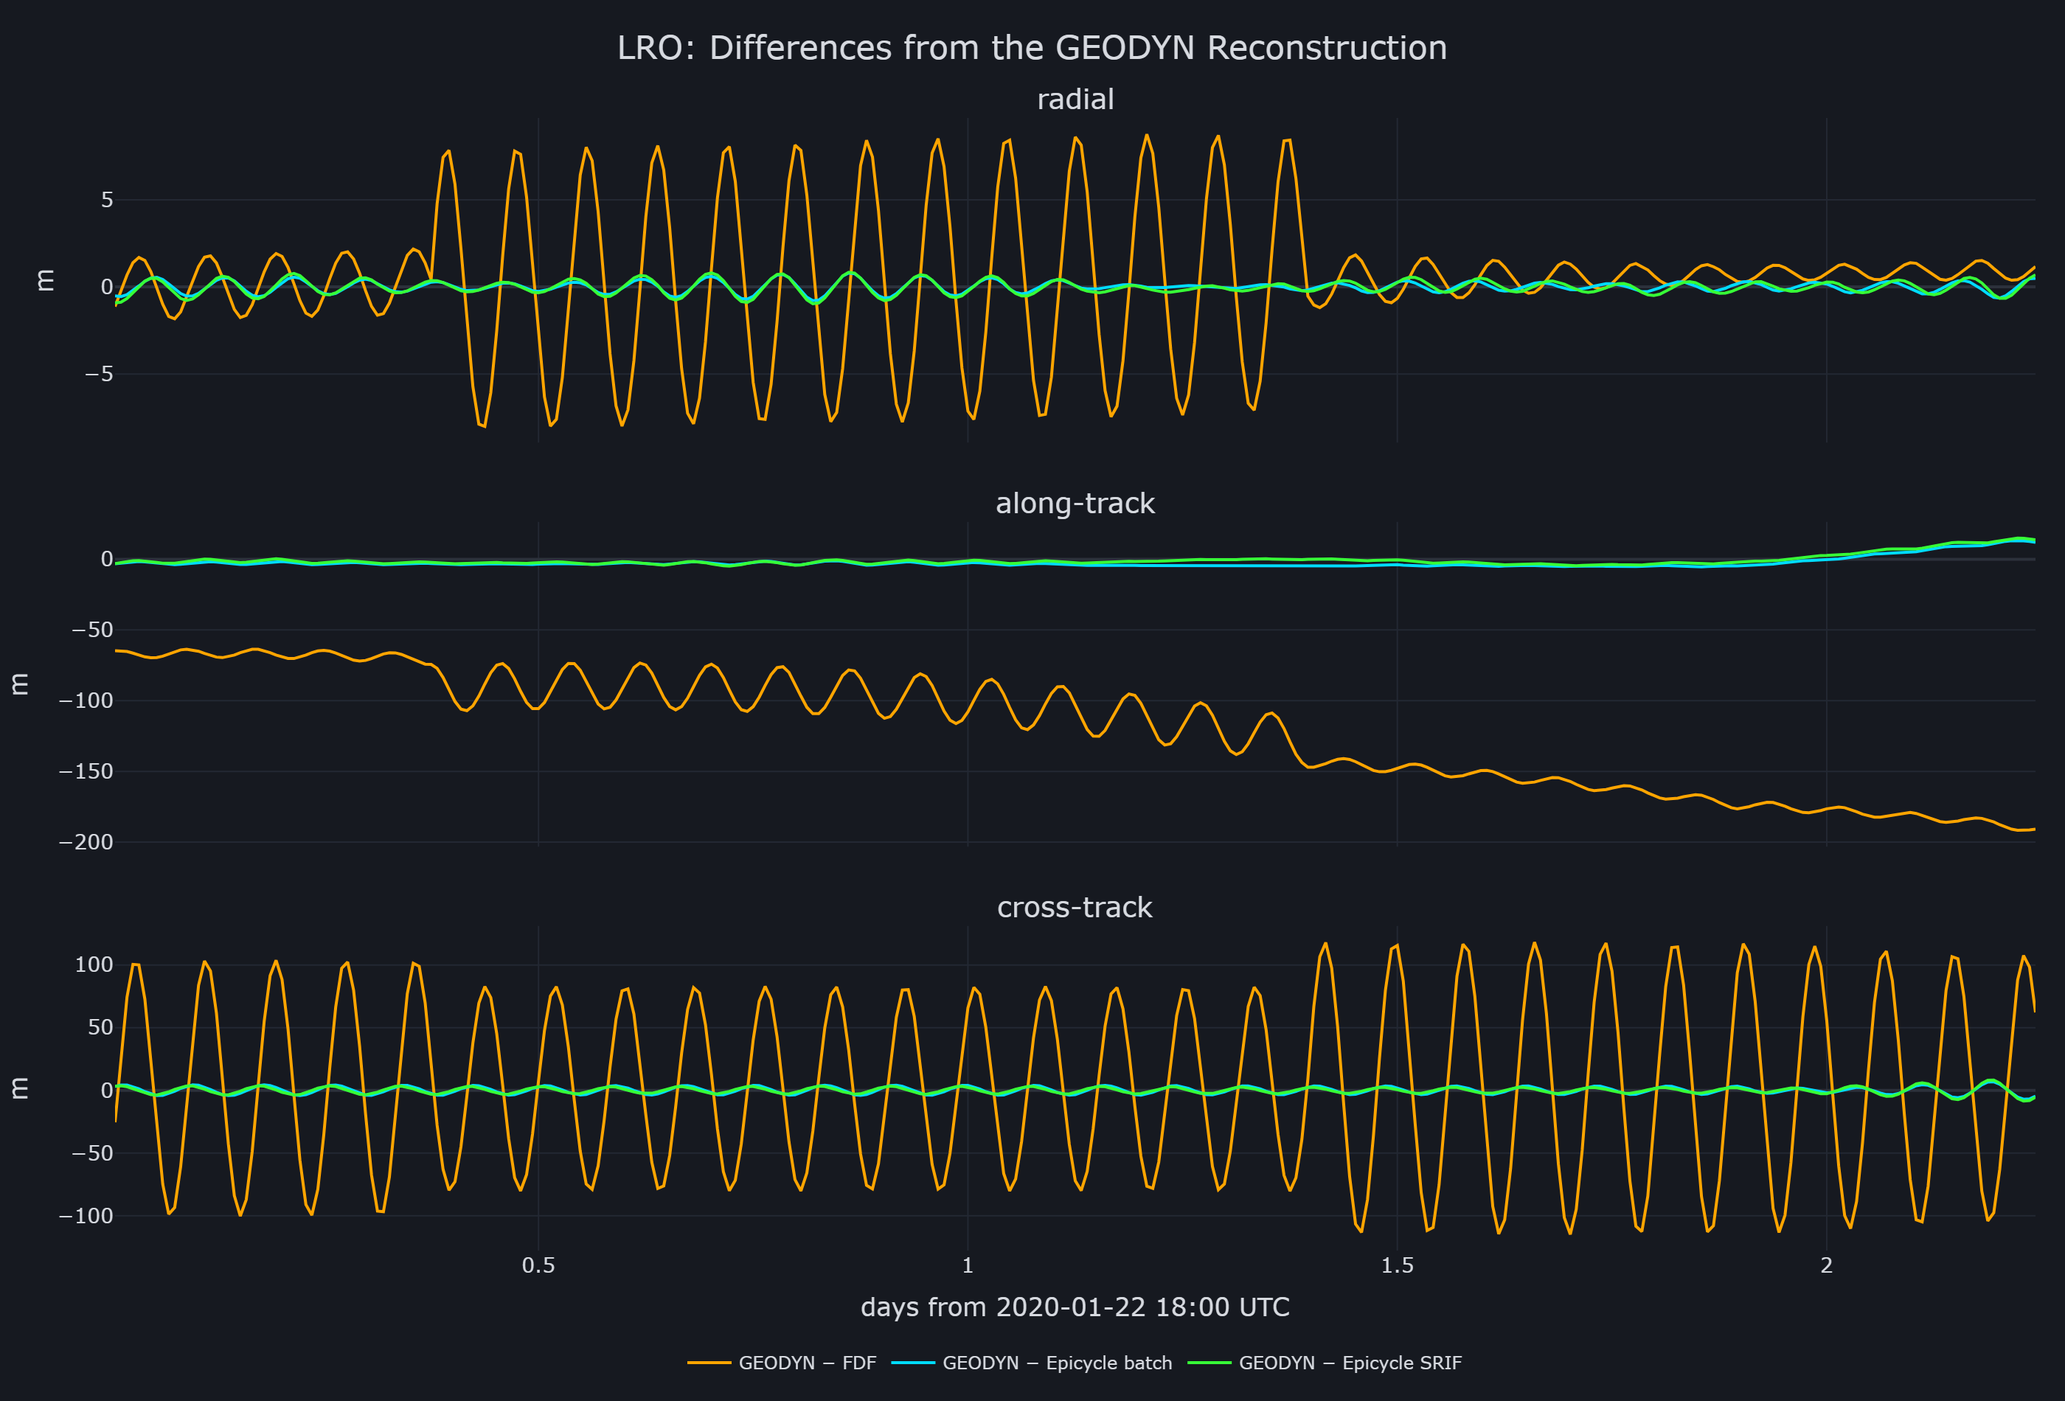
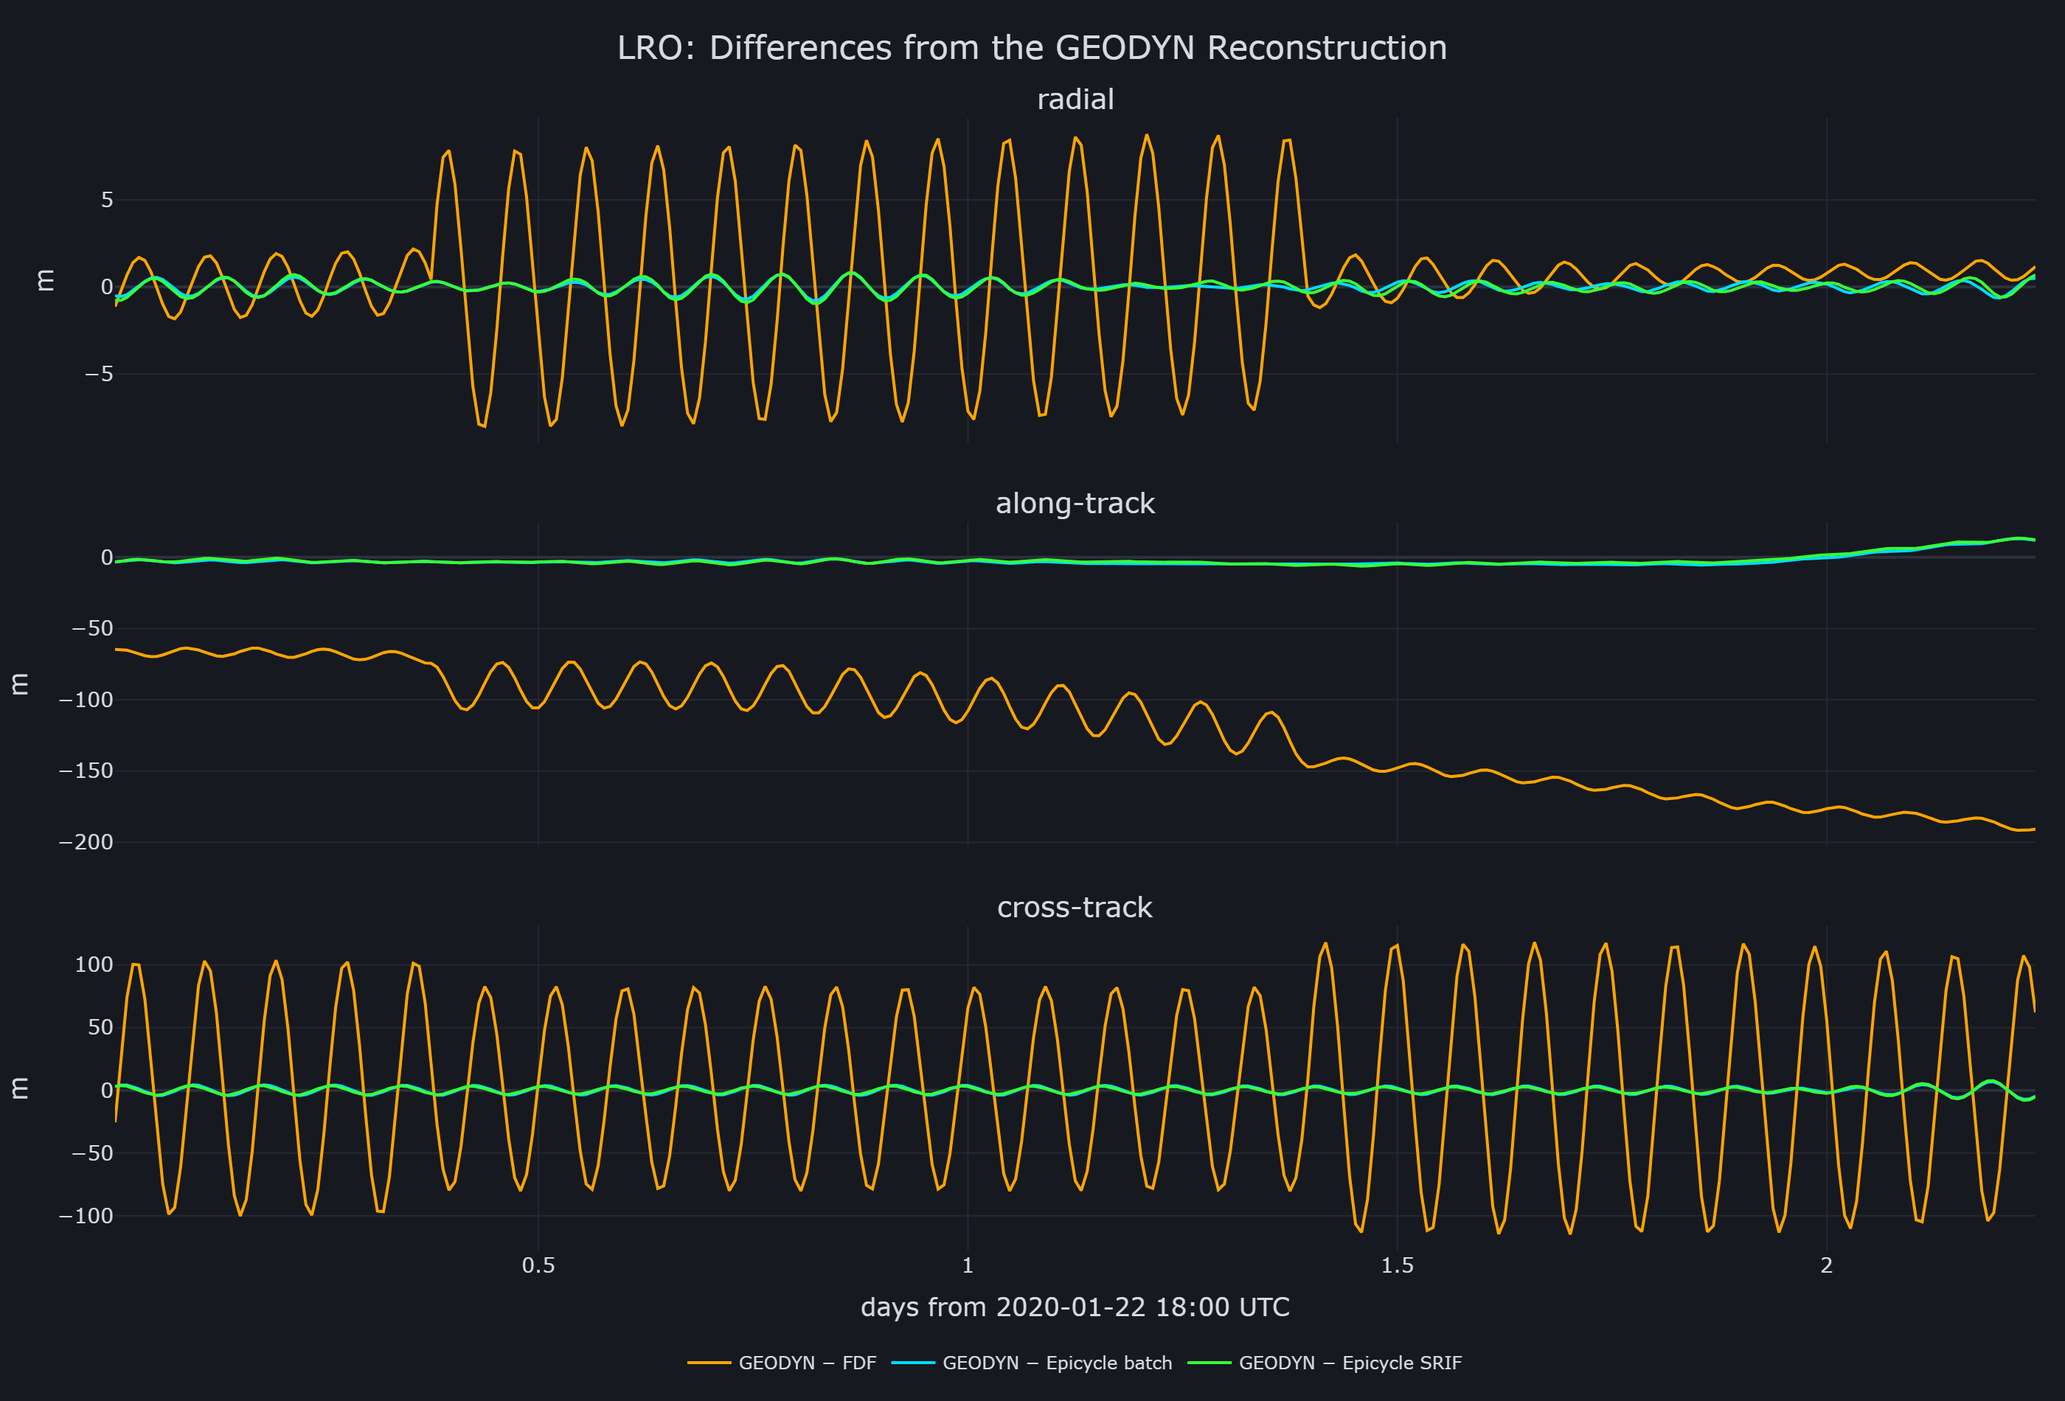
Gallery: LRO filter and smoother residuals, MESSENGER second, one search snippet, global search and hybrid transcription text, Apophis removed; Ex_MixedTranscription restored

Changed region(s): [[0.0621, 0.3726, 0.9943, 0.4037], [0.6525, 0.1863, 0.7457, 0.2174], [0.5282, 0.1863, 0.6214, 0.2174]]

diff --git a/Epicycle/docs/src/gallery.md b/Epicycle/docs/src/gallery.md
@@ -4,9 +4,19 @@ This gallery shows Epicycle applied to real-world, hard problems. The examples i
 
 # LRO Precision OD
 
-An LRO OD solution agrees with the LOLA science team's orbit to meters. The solution processes two days of LRO S-band Doppler and range from three NASA ground network stations. The fit uses the GRGM900C lunar field to degree 150 with lunar solid tides raised by the Earth and Sun, Earth, Sun and Jupiter point masses, cannonball solar radiation pressure, relativity, the Saastamoinen troposphere with reported weather, and the JPL global ionosphere maps. It estimates 17 parameters: the state, the reflectivity, an along-track acceleration, and Doppler, range and range time-tag biases for each station. The same data are also fit with the epoch-state square-root information filter and smoother, which adds Gauss-Markov accelerations on each axis, each held for six hours: 27 more parameters. Epicycle's solution differs from the LOLA team's GEODYN reconstruction by 0.3 m radial, 4.4 m along-track and 2.8 m cross-track RMS with the batch estimator, and by 0.4 m, 4.0 m and 2.5 m with the filter and smoother. The Flight Dynamics Facility's daily solution differs from GEODYN by 3.9 m, 127 m and 70 m.
+An LRO OD solution agrees with the LOLA science team's orbit to meters. The solution processes two days of LRO S-band Doppler and range from three NASA ground network stations. The fit uses the GRGM900C lunar field to degree 150 with lunar solid tides raised by the Earth and Sun, Earth, Sun and Jupiter point masses, cannonball solar radiation pressure, relativity, the Saastamoinen troposphere with reported weather, and the JPL global ionosphere maps. It estimates 17 parameters: the state, the reflectivity, an along-track acceleration, and Doppler, range and range time-tag biases for each station. The same data are also fit with the epoch-state square-root information filter and smoother, which adds Gauss-Markov accelerations on each axis, each held for six hours: 27 more parameters. Epicycle's solution differs from the LOLA team's GEODYN reconstruction by 0.3 m radial, 4.4 m along-track and 2.8 m cross-track RMS with the batch estimator, and by 0.4 m, 4.4 m and 2.6 m with the filter and smoother. The Flight Dynamics Facility's daily solution differs from GEODYN by 3.9 m, 127 m and 70 m.
 
 ![GEODYN minus FDF and the two Epicycle orbits](assets/gallery/LRO_OD_DefinitiveSolutionCompare.png)
+
+The filter's empirical accelerations, modeled as a first-order Gauss-Markov process, absorb the dynamics errors that leave each pass of Doppler residuals tilted in the batch fit, and the Doppler RMS falls from 0.63 to 0.44 mm/s.
+
+![LRO Doppler residuals, batch and filter](assets/gallery/LRO_Doppler_Residuals.png)
+
+# MESSENGER OD with ΔDOR
+
+A MESSENGER OD solution agrees with the navigation team's od431 reconstruction to a few kilometers, and ΔDOR resolves the plane of the sky. The solution processes thirty-five days of MESSENGER's approach to Mercury in 2011, from DSN ramped Doppler, sequential range and ΔDOR against ICRF3 quasars. The fit uses the planets and the Moon as point masses, solar relativity, plate solar radiation pressure on an eight-plate sunshade and both sides of the solar panels oriented by the reconstructed attitude, Moyer's corona model in every leg of the light time, and the DSN troposphere and ionosphere calibrations. It estimates 39 parameters: the state, six plate-group scale factors, the sunshade reflectivities, the corona strength, ten range biases and fourteen three-way Doppler biases. The batch estimator and the epoch-state square-root information filter reach the same solution. Epicycle's solution differs from od431 (JPL's published ephemeris solution) by 1.0 km radial, 2.1 km along-track and 1.2 km cross-track RMS, and by 13 nrad on the plane of the sky; without ΔDOR the difference reaches 21 km.
+
+![MESSENGER residuals](assets/gallery/MESSENGER_Residuals.png)
 
 # Juno Small-Force Estimation
 
@@ -19,12 +29,6 @@ A Juno OD solution estimates small forces as events. The solution processes a mo
 A LAGEOS OD solution agrees with DGFI and the ILRS as closely as they agree with each other (millimeters radial, centimeters along-track and cross-track). The solution processes a week of LAGEOS-1 SLR data from twenty-one ILRS stations. The fit uses sub-daily Earth orientation, solid-tide, pole-tide and ocean-loading station displacements, the Mendes-Pavlis troposphere, a 60 × 60 field with solid and ocean tides, cannonball solar radiation pressure, and relativity. It estimates 46 parameters: the state, the reflectivity, 18 empirical accelerations and a range bias for every station. Epicycle's solution differs from DGFI's by 4.3 mm radial, 1.3 cm along-track and 3.3 cm cross-track RMS, and from the ILRS combined solution by 4.8 mm, 2.6 cm and 1.7 cm; the two published orbits differ from each other by 3.7 mm, 2.0 cm and 3.3 cm.
 
 ![LAGEOS range residuals](assets/gallery/LAGEOS_Residuals.png)
-
-# MESSENGER OD with ΔDOR
-
-A MESSENGER OD solution agrees with the navigation team's od431 reconstruction to a few kilometers, and ΔDOR resolves the plane of the sky. The solution processes thirty-five days of MESSENGER's approach to Mercury in 2011, from DSN ramped Doppler, sequential range and ΔDOR against ICRF3 quasars. The fit uses the planets and the Moon as point masses, solar relativity, plate solar radiation pressure on an eight-plate sunshade and both sides of the solar panels oriented by the reconstructed attitude, Moyer's corona model in every leg of the light time, and the DSN troposphere and ionosphere calibrations. It estimates 39 parameters: the state, six plate-group scale factors, the sunshade reflectivities, the corona strength, ten range biases and fourteen three-way Doppler biases. The batch estimator and the epoch-state square-root information filter reach the same solution. Epicycle's solution differs from od431 by 1.0 km radial, 2.1 km along-track and 1.2 km cross-track RMS, and by 13 nrad on the plane of the sky; without ΔDOR the difference reaches 21 km.
-
-![MESSENGER residuals](assets/gallery/MESSENGER_Residuals.png)
 
 # Propagation Accuracy and Speed
 
@@ -88,8 +92,7 @@ Bryson's orbit raising problem: a constant-thrust spacecraft steers to reach the
 
 # Hybrid Transcription
 
-Low-thrust orbit raising with three phases, each with a different transcription — zero-order hold, Hermite-Simpson and
-Legendre-Gauss-Lobatto.
+Bryson's orbit raising problem split into three phases, each with a different transcription: zero-order-hold multiple shooting, Hermite-Simpson collocation and Legendre-Gauss-Lobatto collocation. Links enforce state and time continuity at the phase boundaries, and one IPOPT problem solves the three together, reaching the 1.523 final radius of the single-phase solution.
 
 ![Hybrid transcription](assets/gallery/Ex_LowThrustHybridTranscription.png)
 
@@ -117,12 +120,6 @@ A transfer from an L1 to an L2 Lyapunov orbit of equal energy in the Earth-Moon 
 
 ![Lyapunov transfer](assets/gallery/Ex_LypunovTransfer.png)
 
-# Apophis Rendezvous
-
-A 360-day low-thrust rendezvous from Earth to the asteroid Apophis for a 1500 kg spacecraft with a 1 N, 3000 s thruster, minimizing propellant. The Sims-Flanagan transcription splits the trajectory into 40 segments, half propagated forward from Earth and half backward from Apophis, meeting at a match point, and IPOPT solves for the throttles.
-
-![Apophis rendezvous](assets/gallery/Ex_ApophisRendezvousSimsFlanagan.png)
-
 # Gravity Assist
 
 An Earth-Earth-Venus trajectory that maximizes the mass delivered into a Venus parking orbit, with a launch vehicle mass model, a C3 limit and a minimum flyby altitude. Each leg is a patched-conic arc with one deep-space maneuver, and IPOPT solves for the epochs, v∞ and maneuvers. The solution delivers 91.6 kg after 512 days.
@@ -131,17 +128,7 @@ An Earth-Earth-Venus trajectory that maximizes the mass delivered into a Venus p
 
 # Cassini Global Search
 
-`GlobalSearch` finds the flyby sequence and the trajectory together. When the sequences are few
-enough to list, it first surveys every one with random starts and basin hops, then a genetic
-algorithm evolves the population; each candidate is solved as a nonlinear program, and only
-transfers that pass a realism check are kept. A search writes its progress to its folder, so it can
-be stopped and resumed.
-
-Cassini, with the flyby sequence left to the search: Earth to Saturn, up to four flybys of Venus,
-Earth, Mars and Jupiter, a launch in 1997 or early 1998 at Cassini's launch energy, eight years of
-flight at most, and insertion into a 1.3 × 150 Saturn-radii orbit. The cost is the total ΔV after
-launch. The best of the 341 sequences is the one Cassini flew, Venus, Venus, Earth, Jupiter, at
-0.854 km/s, launching ten days after Cassini did.
+A global search finds the flyby sequence Cassini flew without an initial guess. The search covers Earth to Saturn with up to four flybys of Venus, Earth, Mars and Jupiter, 341 sequences in all, a launch between January 1997 and June 1998 at Cassini's launch energy, at most eight years of flight, and insertion into a 1.3 × 150 Saturn-radii orbit, minimizing the total ΔV after launch. It surveys every sequence with random starts and basin hops, then evolves the population with a genetic algorithm, solving each candidate as a nonlinear program and keeping only transfers that pass a realism check. The best transfer is Venus, Venus, Earth, Jupiter at 0.854 km/s, launching ten days after Cassini did.
 
 ```julia
 using Epicycle
@@ -160,68 +147,23 @@ evolve!(search)
 
 # Europa Clipper Global Search
 
-Europa Clipper, in its 2024 launch period at its launch requirement of C3 up to 41.69 km²/s², six
-years of flight at most, and insertion into an 11 × 265 Jupiter-radii orbit. The sequence Clipper
-flew, Mars then Earth, comes second at 1.309 km/s, 10 m/s behind a Mars, Venus, Earth tour. It
-launches on 17 October 2024 and flies Mars on 1 March 2025, the day Clipper did.
-
-```julia
-using Epicycle
-
-R_J = 71492.0
-clipper = ImpulsiveMission(departure = earth, target = jupiter,
-                           flyby_bodies = [venus, earth, mars], max_flybys = 4,
-                           launch_window = ("2024-10-01", "2024-11-15"),
-                           max_flight_time = 2192.0, max_launch_vinf = sqrt(41.69),
-                           arrival = OrbitInsertion(periapsis = 11R_J, apoapsis = 265R_J, Isp = 320.0))
-search = GlobalSearch(clipper; folder = "clipper", population = 150, generations = 20, workers = 5)
-evolve!(search)
-```
+A global search finds Europa Clipper's flyby sequence and its Mars flyby date with no a priori information. The search covers Clipper's 2024 launch period at its maximum launch C3 of 41.69 km²/s², with up to four flybys of Venus, Earth and Mars, at most six years of flight, and insertion into an 11 × 265 Jupiter-radii orbit. The sequence Clipper flew, Mars then Earth, comes second at 1.309 km/s, 10 m/s behind a Mars, Venus, Earth tour. It launches on 17 October 2024 and flies Mars on 1 March 2025, the day Clipper did.
 
 ![Europa Clipper best transfers](assets/gallery/GlobalSearch_Europa_Clipper_Best.png)
 
 # Low-Thrust Global Search to Jupiter
 
-Solar-electric transfers to Jupiter and Saturn, launched on a Falcon 9 between 2030 and 2040, with
-ten years of flight at most and up to four flybys. The launch mass follows the launch C3 on the
-Falcon 9 performance curve, and two NEXT-class thrusters give 0.47 N at 4100 s with full power at
-1 AU, falling as 1/r² beyond. Each leg is a Sims-Flanagan transcription, and the cost is the mass
-delivered after a chemical orbit insertion. Each search surveyed every sequence before the genetic
-algorithm ran, and each of the best transfers was then solved again with every segment under 5 %
-throttle held at zero, so the coasts carry no residual thrust. The best to Jupiter launches 3280 kg
-on an Earth, Mars, Mars, Mars tour, burns 316 kg of propellant and delivers 2394 kg; the best to
-Saturn launches 3280 kg through Earth twice and Jupiter, burns 259 kg and delivers 2736 kg. Thrust
-arcs are orange, with the thrust direction in red.
-
-```julia
-using Epicycle
-
-falcon9 = LaunchVehicle(name = "Falcon 9 (ASDS)",
-                        coefficients = [3310.0, -105.4538, -2.663866, 0.2309244], max_c3 = 10.0)
-spacecraft = LowThrustSpacecraft(Isp = 4100.0, thrust = 0.47, power = SolarPower())
-
-R_J = 71492.0
-to_jupiter = LowThrustMission(departure = earth, target = jupiter,
-                              flyby_bodies = [venus, earth, mars], max_flybys = 4,
-                              launch_window = ("2030-01-01", "2040-01-01"), max_flight_time = 3652.5,
-                              spacecraft = spacecraft, launch_vehicle = falcon9,
-                              arrival = OrbitInsertion(periapsis = 4R_J, apoapsis = 150R_J, Isp = 320.0))
-search = GlobalSearch(to_jupiter; folder = "jupiter", population = 150, generations = 100, workers = 5)
-evolve!(search)
-```
+A low-thrust global search finds a solar-electric transfer to Jupiter that delivers 2394 kg from a Falcon 9 launch. The search covers launches between 2030 and 2040 with up to four flybys of Venus, Earth and Mars and at most ten years of flight. The launch mass follows the launch C3 on the Falcon 9 performance curve, and two NEXT-class thrusters give 0.47 N at 4100 s at 1 AU, falling as 1/r² farther out. Each leg is a Sims-Flanagan transcription, and the cost is the mass delivered after a chemical insertion into a 4 × 150 Jupiter-radii orbit. Each of the best transfers is then solved again with the segments under 5 % throttle held at zero, so the coasts carry no thrust. The best launches 3280 kg, flies Earth and then Mars three times, and burns 316 kg of propellant. Thrust arcs are orange, with the thrust direction in red.
 
 ![Low-thrust Jupiter best transfers](assets/gallery/GlobalSearch_LowThrust_Jupiter_Best.png)
 
 # Low-Thrust Global Search to Saturn
 
-The Saturn search is the same with Jupiter among the flyby bodies, no closer than 3 Jupiter radii,
-and insertion into a 1.3 × 150 Saturn-radii orbit.
+A low-thrust global search to Saturn delivers 2736 kg. It is set up as the Jupiter search, with Jupiter added to the flyby bodies no closer than 3 Jupiter radii, and insertion into a 1.3 × 150 Saturn-radii orbit. The best transfer launches 3280 kg, flies Earth twice and then Jupiter, and burns 259 kg of propellant.
 
 ![Low-thrust Saturn best transfers](assets/gallery/GlobalSearch_LowThrust_Saturn_Best.png)
 
 # Halo Orbit Manifolds
-
-A preview of work in progress; this example is not yet in `Epicycle/examples/`.
 
 A Sun-Earth L2 halo orbit with an out-of-plane amplitude of about 200,000 km, started from JPL's
 three-body periodic orbit catalog, with its stable manifold in the circular restricted three-body
@@ -231,7 +173,7 @@ problem. The red trajectories are the transfers from near Earth with the lowest 
 
 # Halo Orbit Family
 
-The Sun-Earth L2 northern halo family, continued from that orbit with BifurcationKit.jl.
+The Sun-Earth L2 northern halo family, solved using continuation with BifurcationKit.jl.
 
 ![Halo orbit family](assets/gallery/HaloOrbitFamily.png)
 
@@ -262,4 +204,4 @@ This is `Ex_HohmannTransfer.jl` open in VS Code with the solver report in the te
 
 # Future Work
 
-Future work will extend the orbit determination toward estimating gravity fields from tracking data, and toward covariance realism in nonlinear filters, using Gaussian mixtures for non-Gaussian uncertainty with high-order derivatives computed to machine precision. We are also investigating nonlinear programming for orbit determination, to see what large, sparse nonlinear solvers can bring to optimal estimation. We also plan to implement closed-loop navigation and control, with the filter and the controller in one loop.
+Future work will extend orbit determination to use machine learning to improve prediction accuracy, measured by definitive-to-predictive overlaps; to estimate gravity fields from tracking data; and to improve covariance realism in nonlinear filters, using Gaussian mixtures for non-Gaussian uncertainty with high-order derivatives computed to machine precision. We are investigating nonlinear programming for orbit determination, to see what large, sparse nonlinear solvers can bring to optimal estimation, and plan to implement closed-loop navigation and control, with the filter and the controller in one loop. For trajectory optimization, we plan to investigate machine learning for global search, and letting the genetic algorithm's outer loop choose the transcription as well as the flyby sequence.
